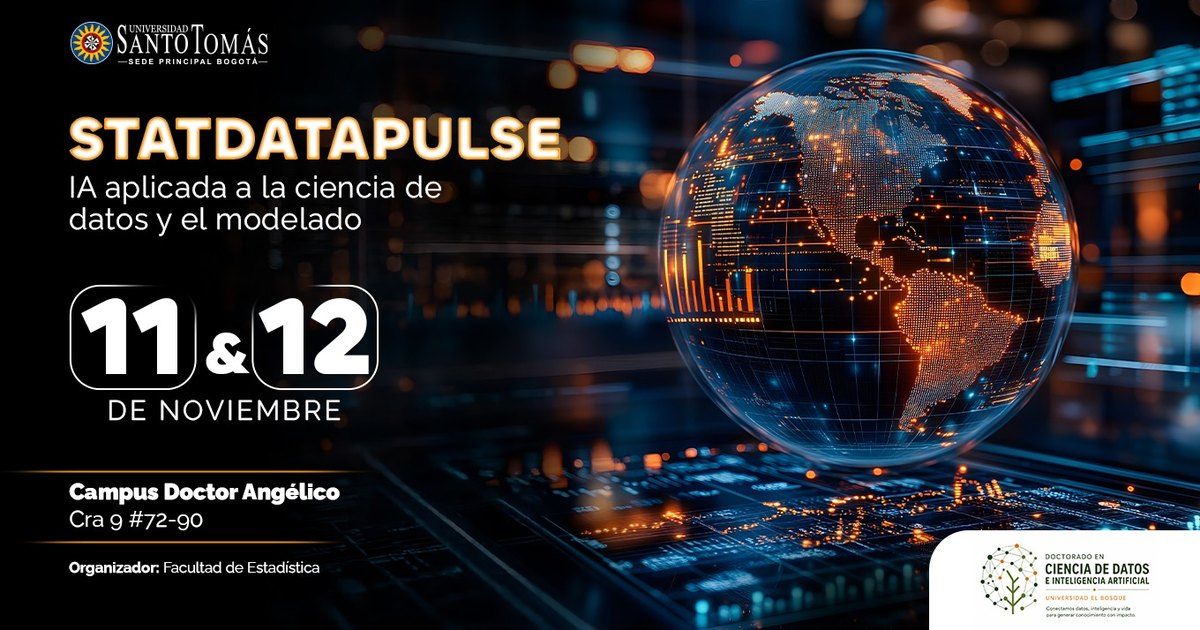
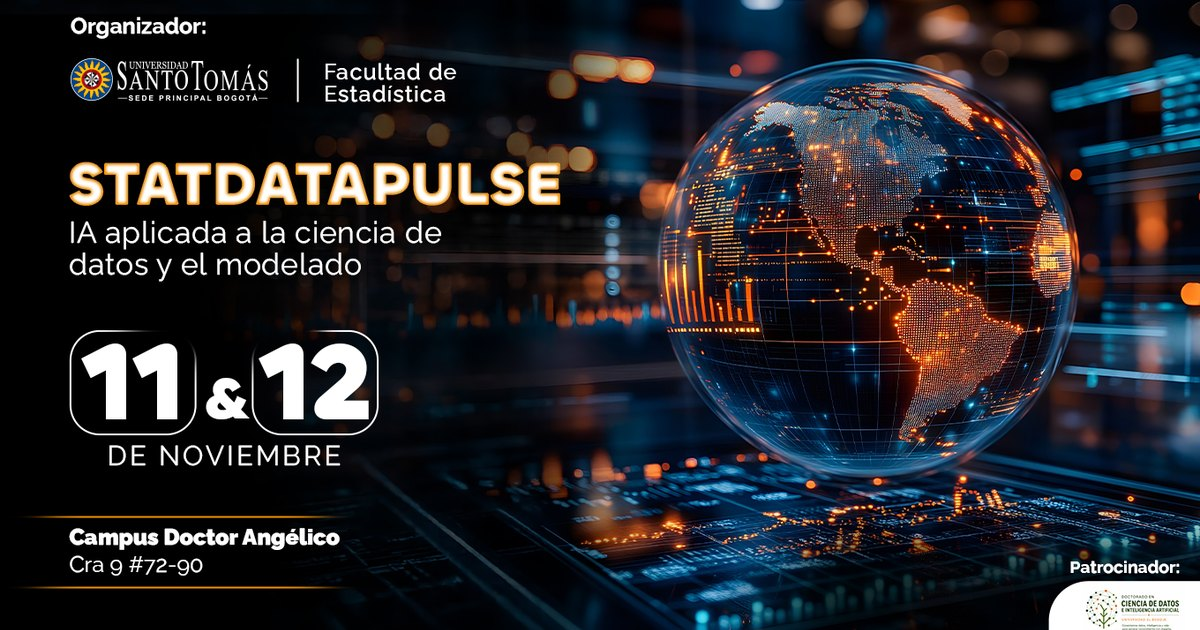
Actualiza las piezas de campaña a la versión 2
Reemplaza el póster vertical y el banner horizontal por las nuevas
versiones, y regenera desde ellas el fondo del hero y la tarjeta de
1200x630 que se usa al compartir el enlace.

Las piezas nuevas rotulan explícitamente los dos papeles, así que el
texto del sitio se corrige para decir lo mismo:

- "ALIADO ACADÉMICO" pasa a "PATROCINADOR". El Bosque aparece ahora
  bajo "Patrocinador:" en ambas piezas; la etiqueta anterior era una
  suposición mía, porque la pieza vieja llevaba el logo sin rótulo.
- "ORGANIZA" pasa a "ORGANIZADOR", que es la palabra de las piezas.
- En "Sobre el evento", "con el acompañamiento del Doctorado" pasa a
  "con el patrocinio del Doctorado".

El póster lleva ahora atributos width/height y un alt descriptivo con
tema, fechas y lugar.

diff --git a/index.html b/index.html
@@ -105,15 +105,15 @@
         </div>
     </section>
 
-    <section class="aliados" aria-label="Organizador y aliados">
+    <section class="aliados" aria-label="Organizador y patrocinador">
         <div class="contenedor aliados__interior">
             <div class="aliados__bloque">
-                <span class="aliados__rotulo">ORGANIZA</span>
+                <span class="aliados__rotulo">ORGANIZADOR</span>
                 <img class="aliados__usta" src="images/logo_usta_blanco.png" alt="Universidad Santo Tomás, sede principal Bogotá">
             </div>
             <span class="aliados__separador" aria-hidden="true"></span>
             <div class="aliados__bloque">
-                <span class="aliados__rotulo">ALIADO ACADÉMICO</span>
+                <span class="aliados__rotulo">PATROCINADOR</span>
                 <span class="aliados__tarjeta"><img src="images/logo_elbosque.jpg" alt="Doctorado en Ciencia de Datos e Inteligencia Artificial, Universidad El Bosque"></span>
             </div>
             <span class="aliados__nota">Entrada con inscripción previa</span>
@@ -128,10 +128,10 @@
                 <span class="cabeza__raya"></span>
             </div>
             <div class="evento__reja">
-                <img class="evento__poster" src="images/pieza-2026-poster.jpg" alt="Pieza de campaña de Statistical DataPulse 2026" width="900" height="1600">
+                <img class="evento__poster" src="images/pieza-2026-poster.jpg" width="899" height="1599" alt="Pieza de campaña de Statistical DataPulse 2026: IA aplicada a la ciencia de datos y el modelado, 11 y 12 de noviembre, Campus Doctor Angélico" width="900" height="1600">
                 <div class="evento__texto">
                     <p class="evento__entrada">La edición 2026 del simposio se concentra en un punto concreto: <strong>qué cambia en el trabajo estadístico cuando la inteligencia artificial entra al proceso de modelado</strong>. Dos días de charlas y cursillos prácticos sobre agentes de IA, modelos estocásticos y riesgo, con código en la mano.</p>
-                    <p class="evento__parrafo">Organiza la Facultad de Estadística de la Universidad Santo Tomás, con el acompañamiento del Doctorado en Ciencia de Datos e Inteligencia Artificial de la Universidad El Bosque. Está dirigido a estudiantes, docentes, investigadores y profesionales que trabajen con datos.</p>
+                    <p class="evento__parrafo">Organiza la Facultad de Estadística de la Universidad Santo Tomás, con el patrocinio del Doctorado en Ciencia de Datos e Inteligencia Artificial de la Universidad El Bosque. Está dirigido a estudiantes, docentes, investigadores y profesionales que trabajen con datos.</p>
                     <div class="fichas">
                         <div class="ficha">
                             <span class="ficha__rotulo">
